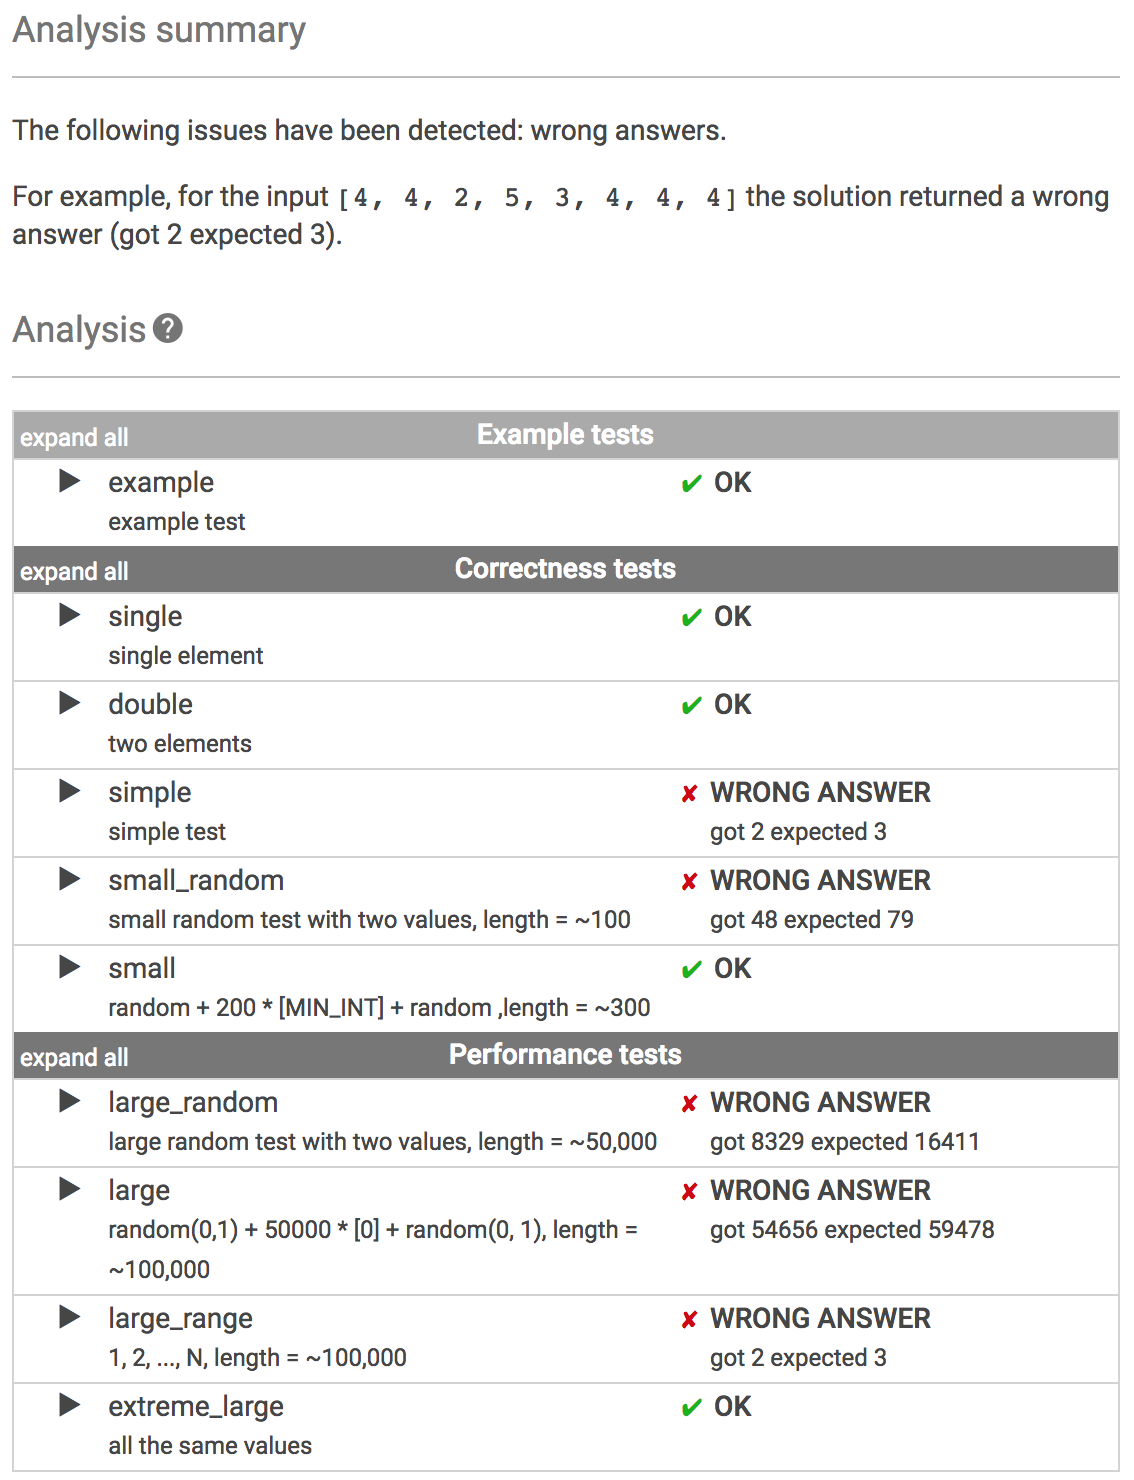
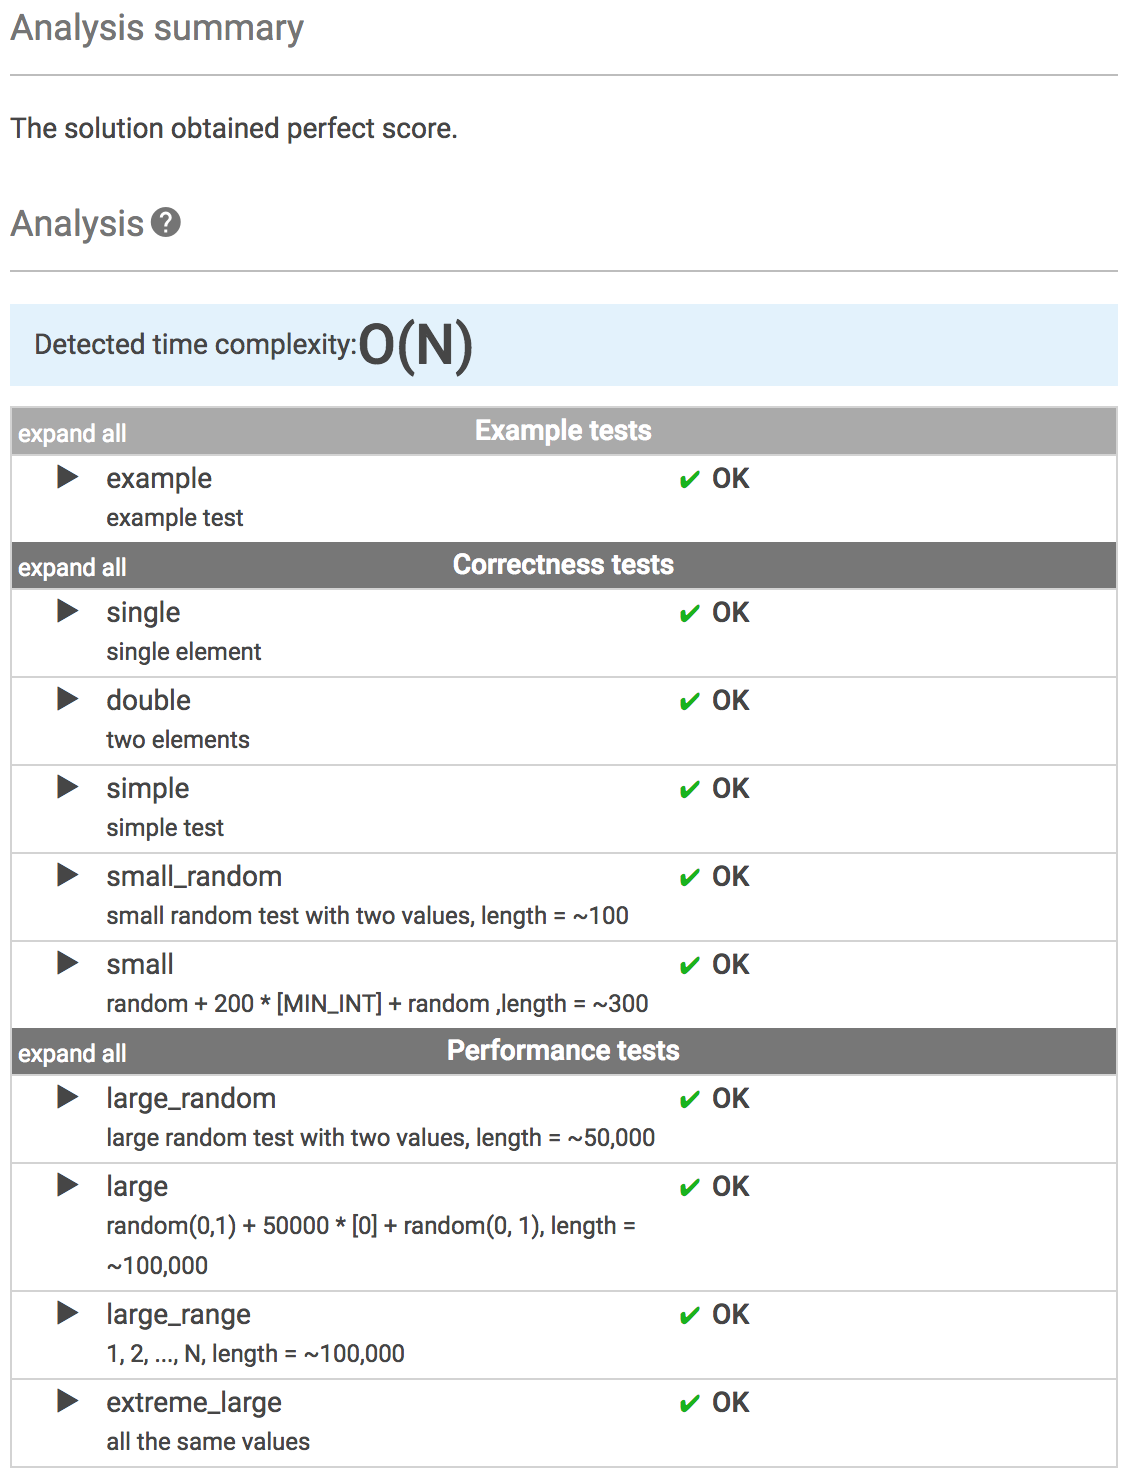
Awesome Completed for EquiLeader of Lesson_8_Leader.

diff --git a/Lessons/8_Leader/Tasks_EquiLeader/Answer.php b/Lessons/8_Leader/Tasks_EquiLeader/Answer.php
@@ -41,40 +41,54 @@ function solution($A) {
     }
 
     $result = 0;
-
+    $jLimit = $arrLength - 1;
     $checker = 0;
 
-    for ($j = 0; $j < $arrLength; $j++)
+    for ($j = 0; $j < $jLimit; $j++)
     {
-        if (isset($tmpArray[$A[$j]][1][$j]))
+        if (isset($tmpArray[$target][1][$j]))
         {
-            $checker = $tmpArray[$A[$j]][1][$j];
+            $checker = $tmpArray[$target][1][$j];
         }
 
         $tmpLeftCount = $j + 1;
 
-        if ($tmpLeftCount % 2 === 1)
+        if ($tmpLeftCount === 1)
         {
-            $tmpLeftHalfLength = ceil($tmpLeftCount / 2);
+            $tmpLeftHalfLength = 1;
         }
         else
         {
-            $tmpLeftHalfLength = $tmpLeftCount / 2 + 1;
+            if ($tmpLeftCount % 2 === 1)
+            {
+                $tmpLeftHalfLength = ceil($tmpLeftCount / 2);
+            }
+            else
+            {
+                $tmpLeftHalfLength = $tmpLeftCount / 2 + 1;
+            }
         }
 
         $tmpRightCount = $arrLength - $tmpLeftCount;
 
-        if ($tmpRightCount % 2 === 1)
+        if ($tmpRightCount === 1)
         {
-            $tmpRightHalfLength = ceil($tmpRightCount / 2);
+            $tmpRightHalfLength = 1;
         }
         else
         {
-            $tmpRightHalfLength = $tmpRightCount / 2 + 1;
+            if ($tmpRightCount % 2 === 1)
+            {
+                $tmpRightHalfLength = ceil($tmpRightCount / 2);
+            }
+            else
+            {
+                $tmpRightHalfLength = $tmpRightCount / 2 + 1;
+            }
         }
 
         if ($checker >= $tmpLeftHalfLength &&
-            $tmpArray[$A[$j]][0] - $checker >= $tmpRightHalfLength)
+            $tmpArray[$target][0] - $checker >= $tmpRightHalfLength)
         {
             $result++;
         }
